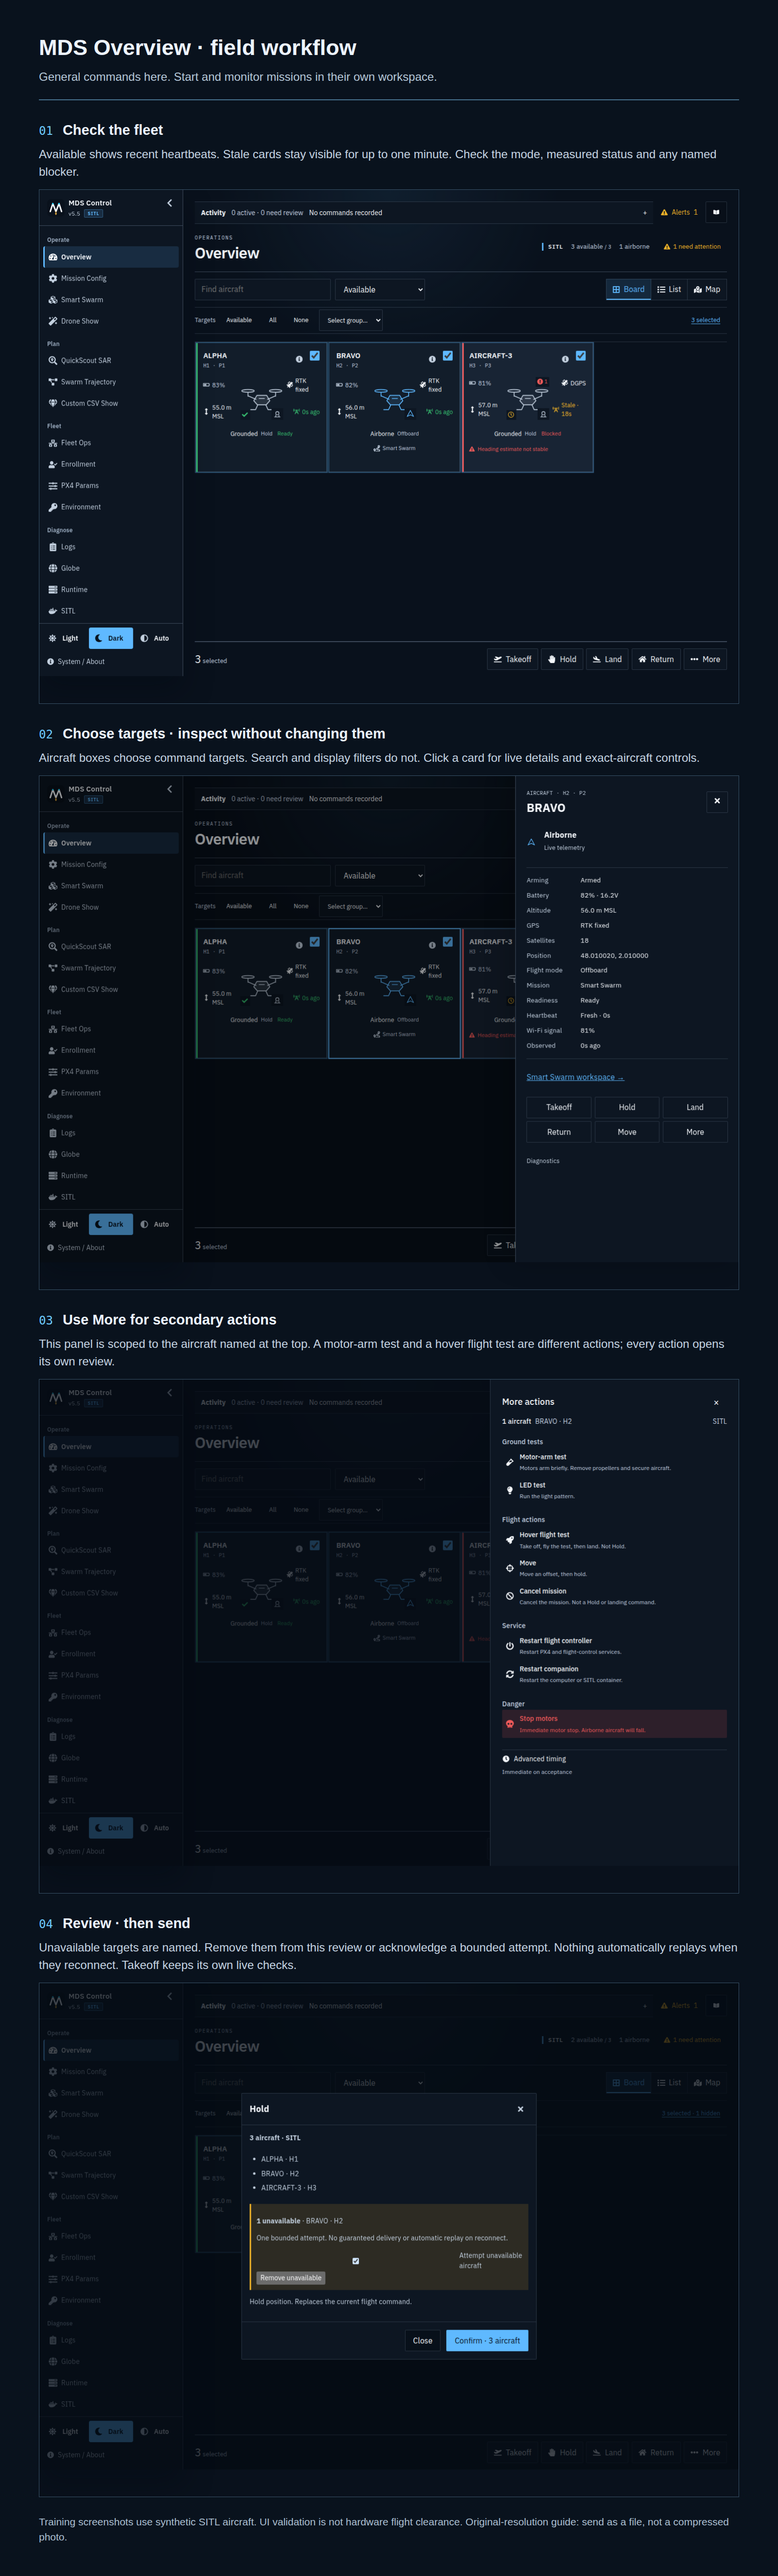
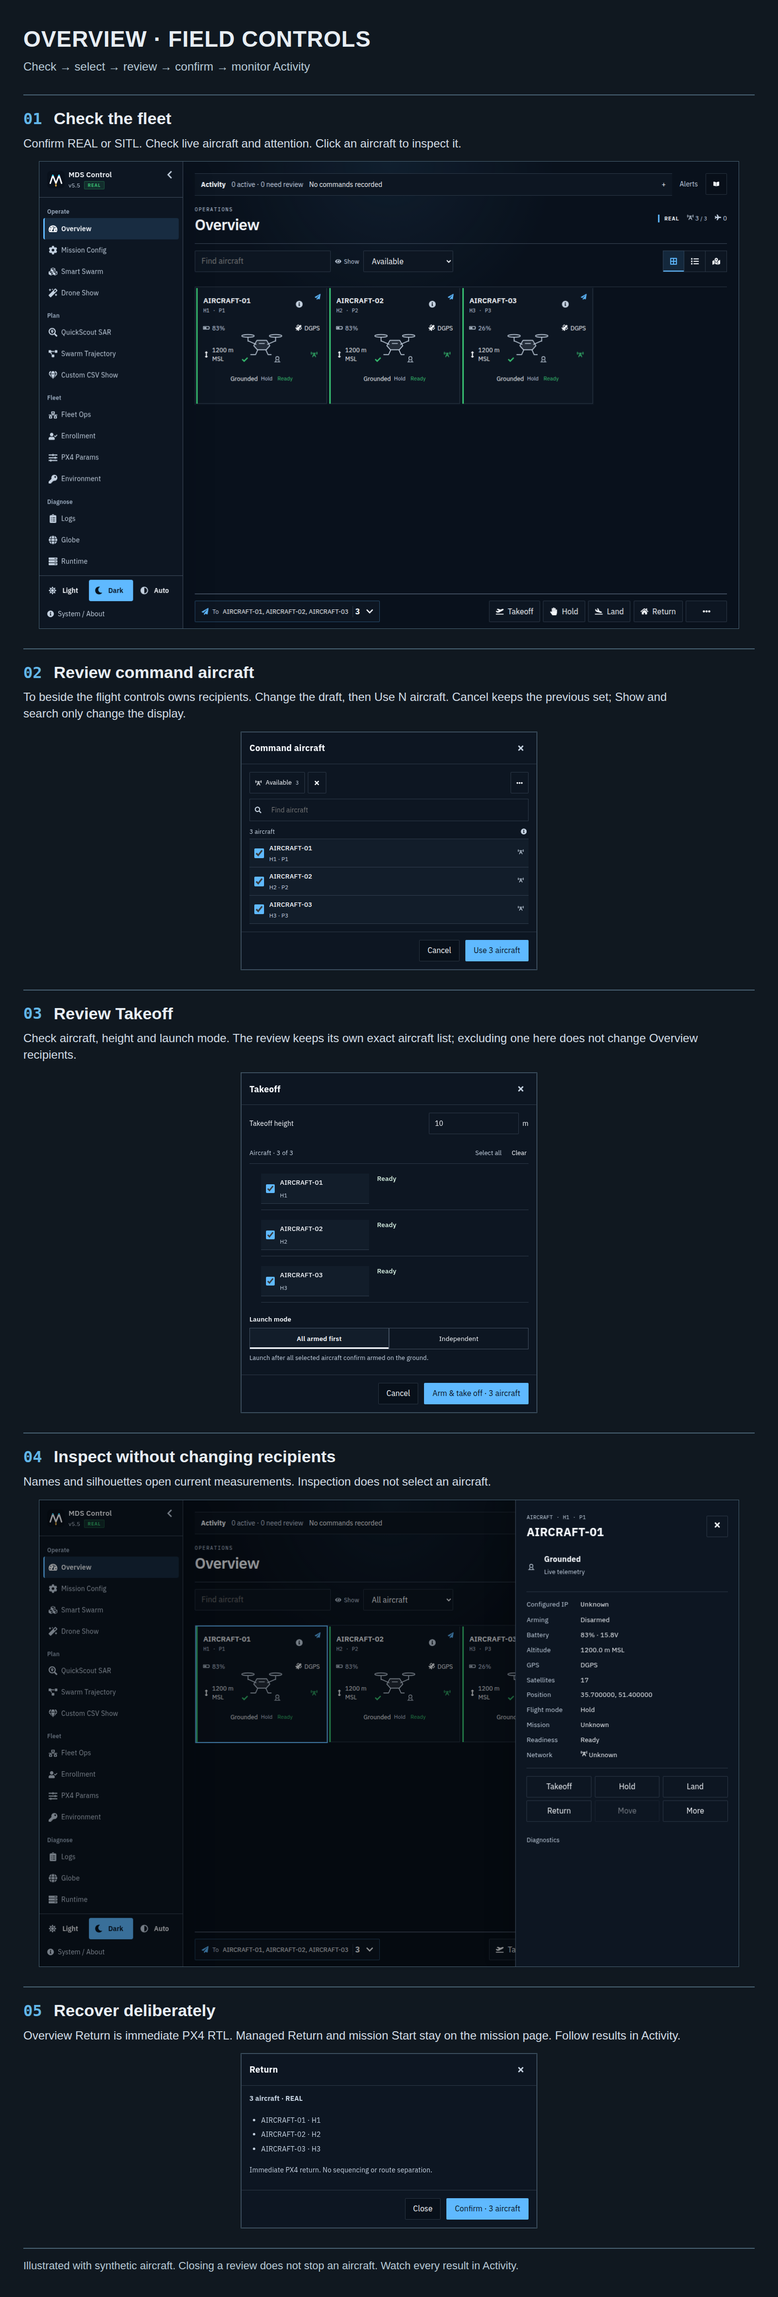
docs(overview): illustrate recipient workflow and record built acceptance

diff --git a/docs/plans/2026-11-13-overview-command-scope-ux-plan.md b/docs/plans/2026-11-13-overview-command-scope-ux-plan.md
@@ -1,7 +1,8 @@
 # Overview: separate display from command recipients
 
-Status: approved; implementation candidate under isolated validation. No
-production deployment or aircraft operation has been performed for this phase.
+Status: implemented; source candidate accepted with isolated built-UI evidence.
+Production activation is a separate grounded-maintenance step; this UI evidence
+is not hardware flight clearance.
 
 ## Evidence and consultation
 
@@ -179,3 +180,33 @@ Keep the approved default and restoration rules. Removing permanent card
 checkbox editing is the approved material interaction change. It makes recipient editing
 one deliberate operation but adds no steps to the common all-aircraft command.
 Actual field operator feedback remains part of the usability acceptance loop.
+
+## Acceptance evidence — 13 November 2026
+
+- 179 React tests across 14 suites passed, including selection persistence,
+  exact command snapshots, unavailable/uncertain reviews, Takeoff, navigation,
+  aircraft inspection, Mission Config and shared aircraft search.
+- A strict production build passed on the designated remote validation host.
+- 32 built-browser cases passed: 1/3/20/100 aircraft × 390/768/900/1440 CSS
+  pixels × dark/light. Checks include local draft Apply/Cancel, keyboard focus
+  containment/restoration, touch targets, hidden Map recipients, a lost link
+  during a frozen review, remembered empty selection and Takeoff-local exclusions.
+- Two additional long-name cases passed at 720×480 CSS pixels / scale factor 2
+  (200%-equivalent reflow, not a claim of browser-chrome zoom automation).
+- Four all-live synthetic guide cases and one bounded 62-second, 100-aircraft
+  stability run passed: 39 browser scenarios total. Fixture writes are blocked;
+  no aircraft commands or parameter writes were sent.
+- Actual image inspection exposed a shared form-label specificity conflict;
+  the controlled row owns its horizontal layout now, with a browser assertion.
+- Long-name validation reproduced four failing shared-search regressions.
+  Explicit colon/space-delimited filter tokens fixed them without special
+  callsign exceptions; documented search forms remain covered.
+- Refreshed the [five-step operator guide](../assets/operator-overview/overview-operator-guide.png),
+  desktop/phone and light/dark screenshots, operator documentation and generated
+  documentation index. Images use synthetic identities, not a customer fleet.
+
+No native command/admission, flight controller, formation, SDK dependency or
+API/MCP schema change is part of this release. Existing mission and Takeoff
+ownership is unchanged. No new aircraft/SITL image is required for this GCS UI
+change. A staged source candidate must not be described as an activated portal
+until its separate maintenance deployment is confirmed and verified.
